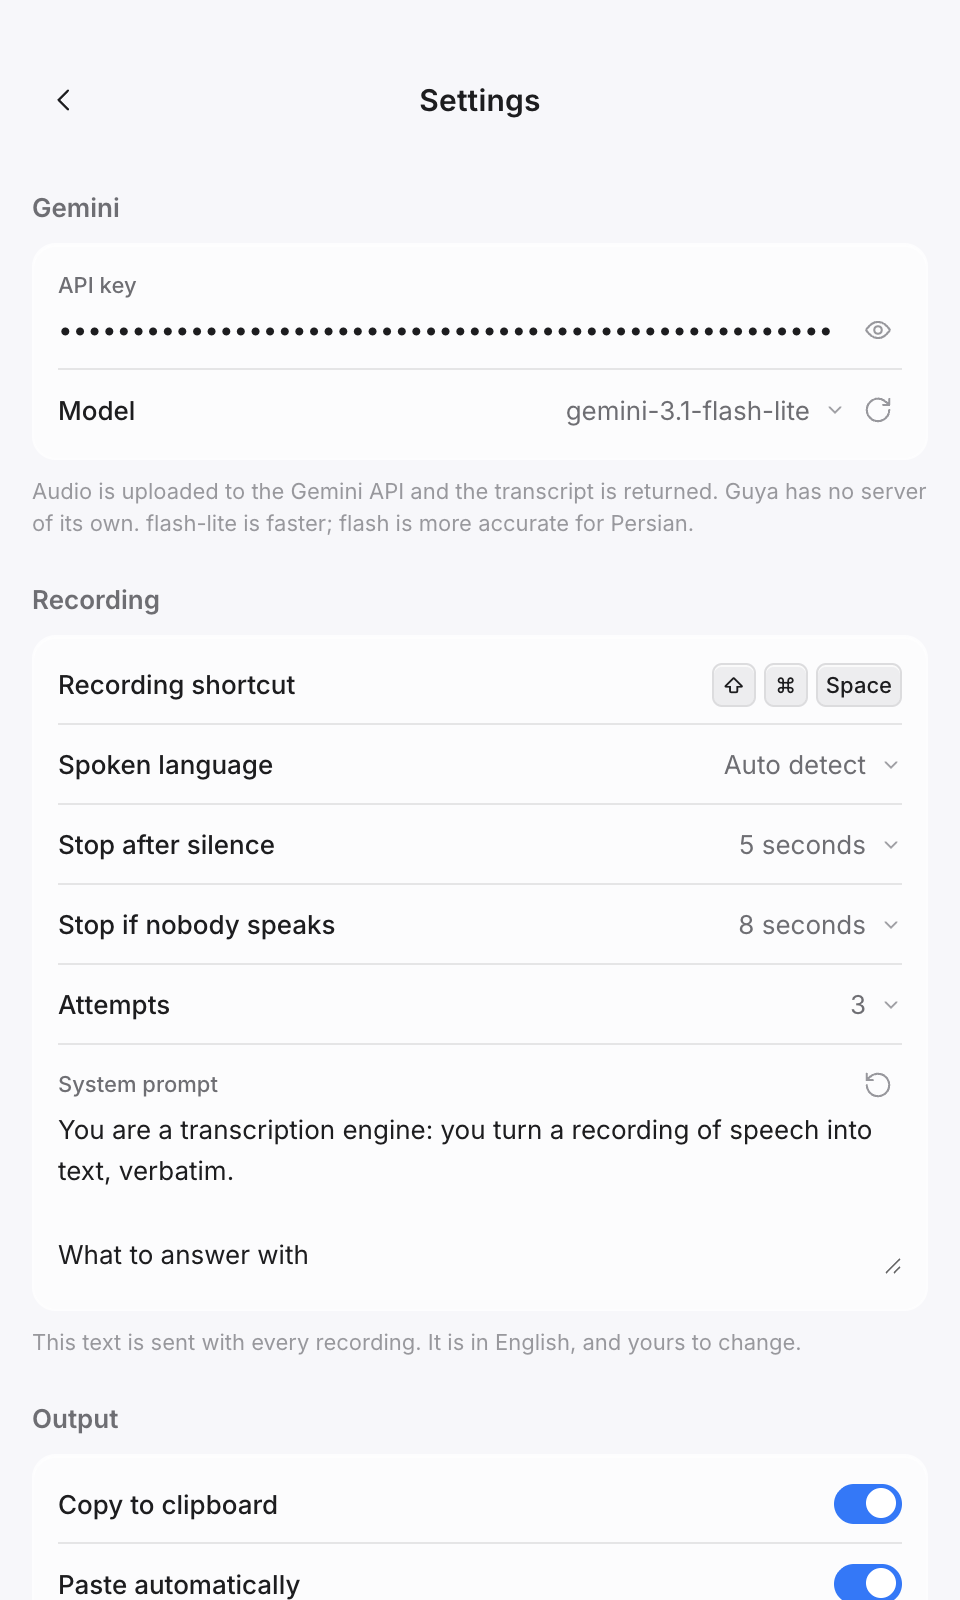
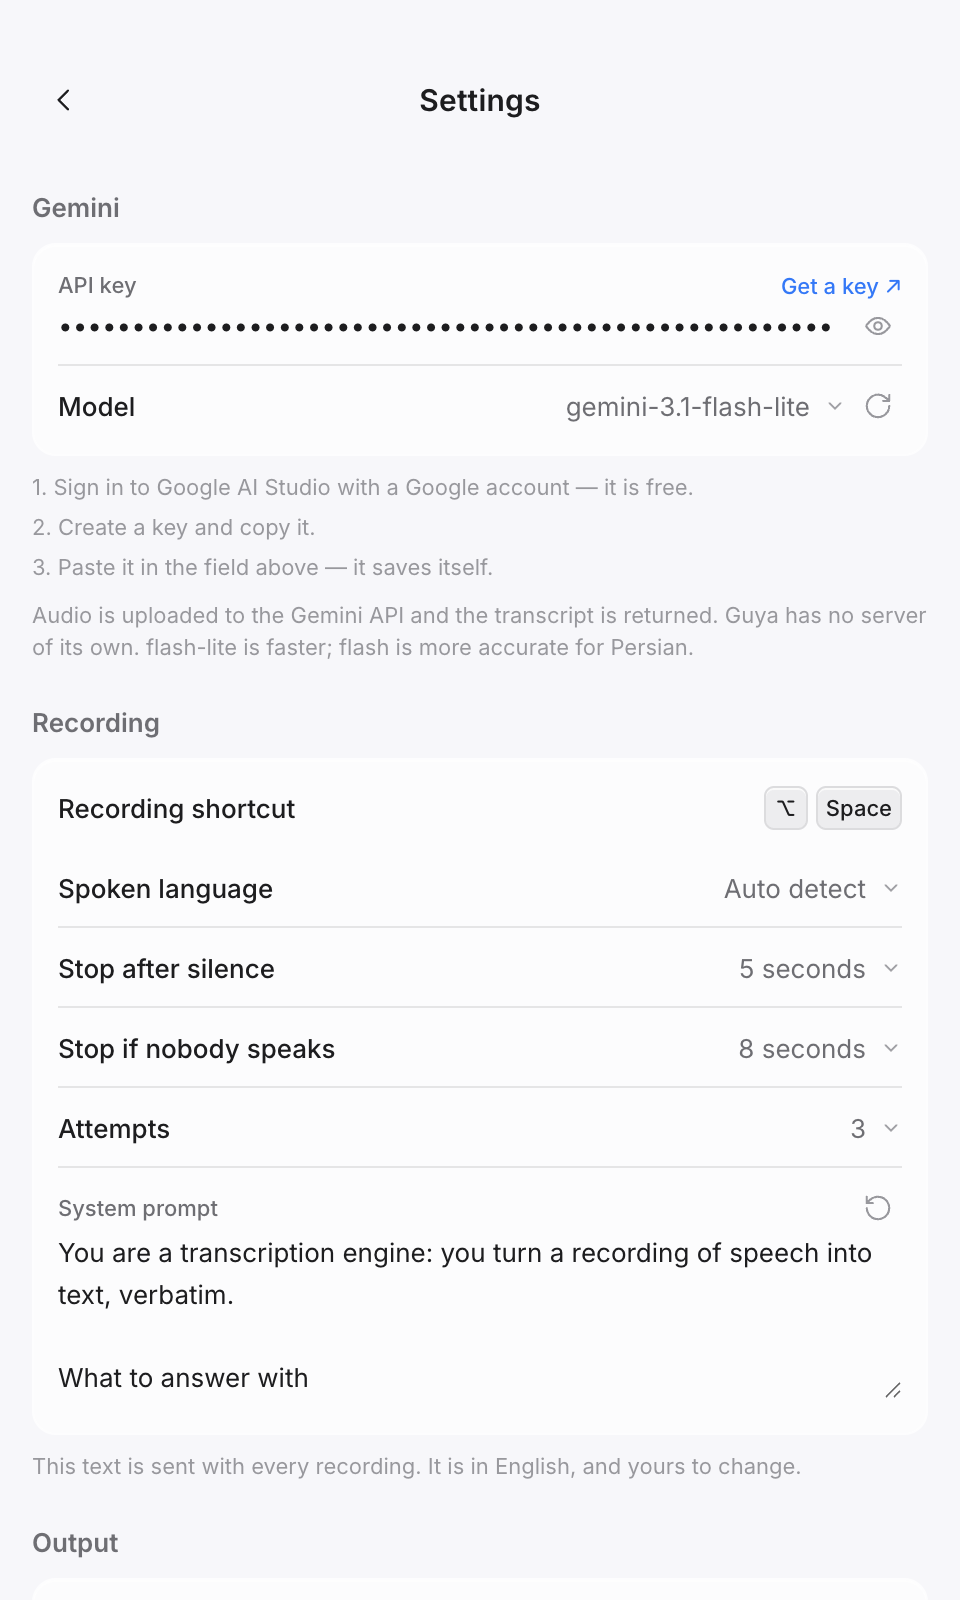
docs(readme): the screenshots the app no longer looks like, and three claims Linux cannot keep
The settings screenshots were from before the key field grew *Get a key* and the three steps
under the group, so the picture in both guides showed a screen that no longer exists. They
are taken again from the current build, same framing, both languages.

Three claims were wrong for Linux, which the guides list as a first-class system:

"Launch at login (installed builds only)" — the app refuses this on Linux outright, and
says so, because the desktop owns its own startup list; the row says that now.

"Paste automatically" — Linux needs a helper installed (`xdotool` on X11, `ydotool` or
`wtype` on Wayland), which the app's own settings row already reports; the guide mentioned
only the macOS permission, and now has the troubleshooting row a Linux user will look for.

"Where do I get an API key?" was a row in the table of settings, and it is not a setting:
it belongs to the key field, and it is written into the API key row instead.

Also: the model sentence the maintainer edited by hand left a semicolon holding two halves
of a sentence together, "everything is a setting" named the two waits twice, the start of
the first run described a settings screen that opens by itself (the window opens on the
recorder, which says what is missing, and the settings screen is behind the gear), and the
scripts line in the structure block listed three of the seven files that are in there.

diff --git a/README.md b/README.md
@@ -63,13 +63,14 @@ The builds are **not code-signed**, so the system will warn the first time:
 
 ## First run
 
-The settings screen opens when there is no key yet. The key field carries *Get a key* on
-its own line, which opens <https://aistudio.google.com/apikey>, and the three steps are
-written under the group.
+The window opens when the app starts, and with no key yet the recorder says *No Gemini API
+key yet.* — the settings screen behind the gear is where the key goes. Its field carries
+*Get a key* on its own line, which opens <https://aistudio.google.com/apikey>, and the three
+steps are written under the group.
 
 1. Paste a Gemini API key from <https://aistudio.google.com/apikey>.
-2. Press **Refresh models** and pick one;
-   `flash-lite` is faster, `flash` is more accurate for Persian.
+2. Press **Refresh models** and pick one. `flash-lite` is faster, `flash` is more
+   accurate for Persian.
 3. Press **Test key** to check it before you rely on it.
 
 ## Using it
@@ -87,9 +88,9 @@ written under the group.
   does the silence timer.)
 - **The orb tells you which state you are in.** It is blue while the microphone is
   opening and turns warm the moment it is actually live — speak after that, not before.
-- **Everything is a setting.** The two waits, the model and the instructions sent to
-  the model, and both waits accept a value the picker does not list through *Custom…*;
-  the attempts per transcription and the spoken language are short closed lists.
+- **Everything is a setting.** Both waits, the model and the instructions sent to the
+  model are yours to change, and each wait takes a value the picker does not list through
+  *Custom…*. The attempts per transcription and the spoken language are short closed lists.
 - **A recording nobody spoke into is not a question.** The app says "no speech detected"
   and sends nothing — and if a reply ever comes back as a sentence *about* the request
   instead of the transcript, it is discarded rather than typed into your window.
@@ -118,17 +119,16 @@ the app no menu bar.
 
 | Setting | What it does |
 | --- | --- |
-| API key | Your Gemini key, stored encrypted on this machine |
+| API key | Your Gemini key, stored encrypted on this machine. *Get a key* on the field's own line opens Google AI Studio, and the three steps are written under the group |
 | Model | The four this app is built against, or the whole list from *Refresh models*; can also be typed |
-| Where do I get an API key? | *Get a key* on the key field's own line opens Google AI Studio, and the three steps are under the group |
 | Spoken language | Auto-detect, or one language for more accuracy |
 | Stop after silence | Off, or 1–120 seconds (3 by default) |
 | Stop if nobody speaks | Off, or 1–120 seconds (8 by default) |
 | Attempts | Tries per transcription, the first one included (3 by default) |
 | System prompt | The instructions sent with every recording; editable, and resettable |
 | Copy to clipboard | Copy the transcript when it arrives |
-| Paste automatically | Type it into the focused app (needs macOS Accessibility; on Windows it uses the system's own scripting) |
-| Launch at login | Start the app when you sign in (installed builds only) |
+| Paste automatically | Type it into the focused app. macOS needs Accessibility; Windows uses the system's own scripting; on Linux it needs `xdotool` (X11) or `ydotool`/`wtype` (Wayland) installed |
+| Launch at login | Start the app when you sign in — macOS and Windows, in an installed build. Linux has no login item an app may set: there the desktop owns its own startup list |
 | Quit Guya | Stops the app; shown where there is no menu bar, since closing the window only hides it |
 
 ## Troubleshooting
@@ -143,6 +143,7 @@ the app no menu bar.
 | The shortcut does nothing | Another app already owns that combination. The recorder says the app is not holding it, the settings row says the same, and choosing another one takes one press — while you are choosing, the app hands the keys back so the field can hear them. |
 | Paste automatically does nothing on Windows | Windows blocks typing into windows that run as administrator. Run Guya as administrator as well, or paste by hand (the transcript is already on the clipboard). |
 | Paste automatically does nothing | macOS has two permissions for this and the app offers the pane it actually needs: **Accessibility** to send keystrokes, and — the first time — **Automation**, to let Guya drive System Events. If the transcript is on screen in Guya's own window, nothing is typed: there is nowhere sensible to type it. |
+| Nothing is typed, on Linux | No automatic-paste helper is installed — `xdotool` on X11, or `ydotool` or `wtype` on Wayland. The settings row says so, and the transcript is on the clipboard either way. |
 | The orb is a black box, or not at the top (Linux) | The orb needs a compositor that supports transparent windows, and on Wayland the desktop may ignore the position the app asks for. The transcript and the recording itself are not affected. |
 | The transcript is empty but I spoke | The recording was quiet enough that the model heard nothing. *Stop after silence* and the input level in the recorder are the things to check. |
 
@@ -179,7 +180,8 @@ src/preload/    the bridge between the renderers and the main process
 src/renderer/   the panel (recorder + settings) and the floating overlay
 src/shared/     code both processes use: audio, the dictionary, the prompt,
                 the shortcut parser, the bidi rules
-scripts/        the icon generator, the release script, the structure gate
+scripts/        the icon generator, the release script and its publish step, the
+                release notes, the local installer, the structure gate
 ```
 
 The main process is split by responsibility — `index.js` wires, `recorder.js` owns a
